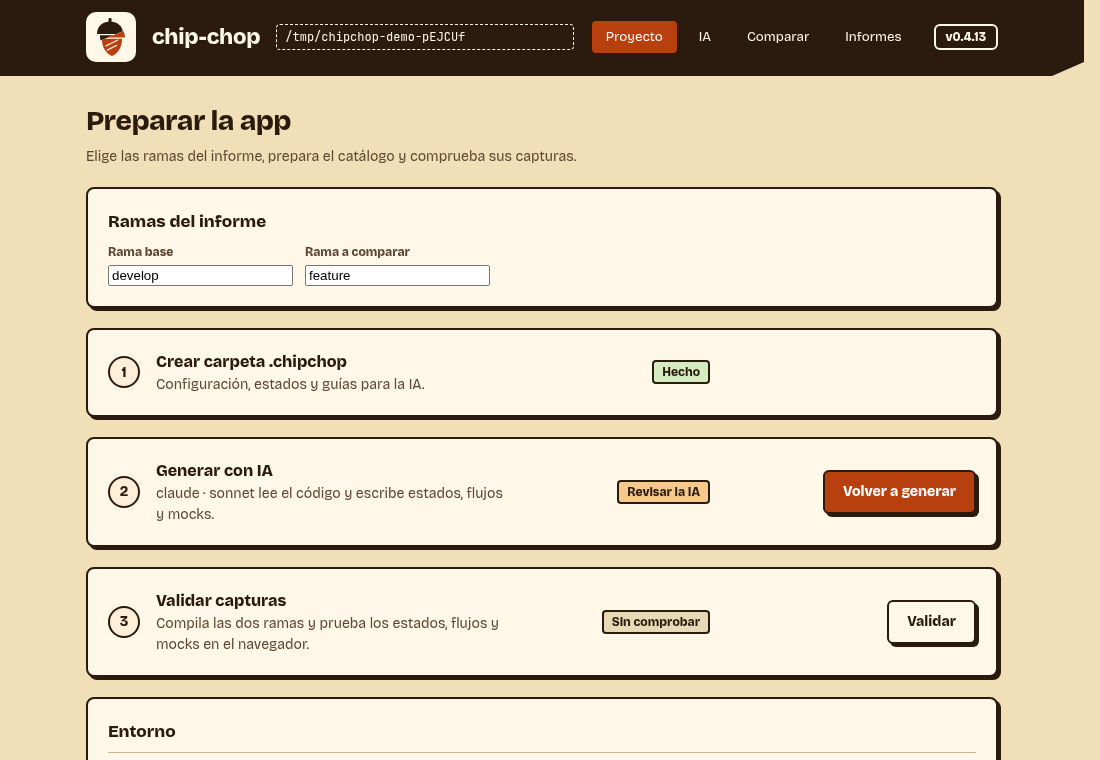
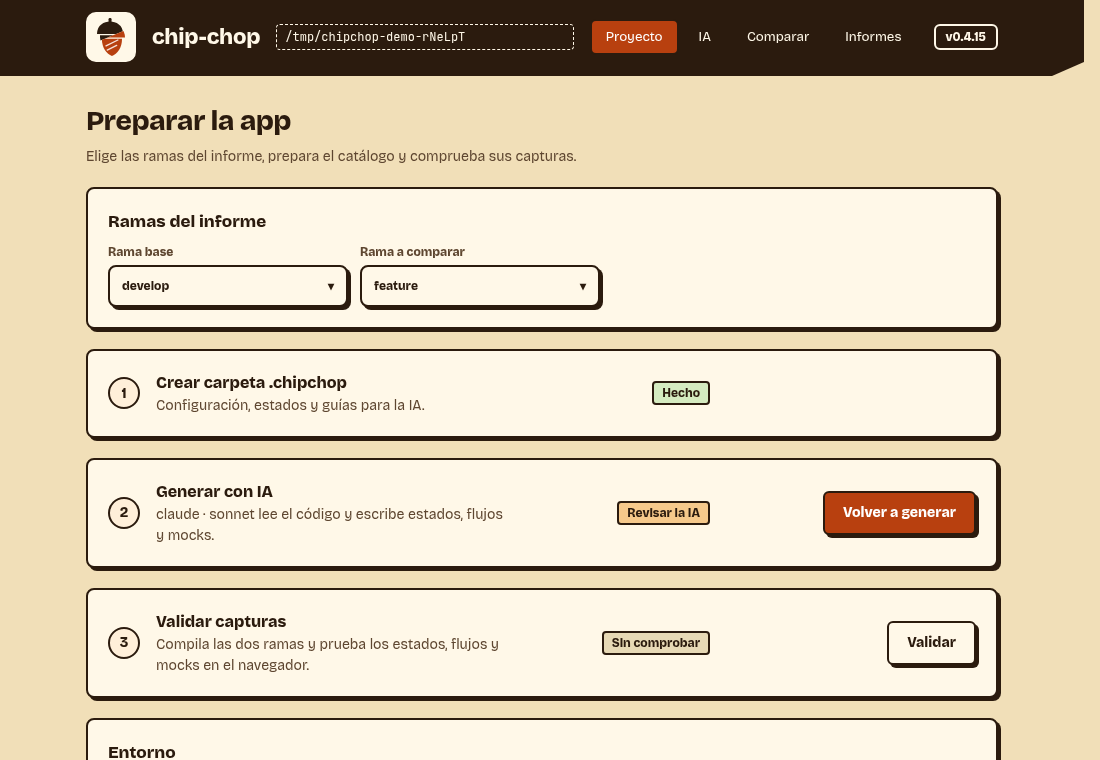
Reutiliza el buscador de ramas en Proyecto

Changed region(s): [[0.0618, 0.3026, 0.9273, 0.9987], [0.3709, 0.0303, 0.4327, 0.0605]]

diff --git a/packages/core/ui/app.js b/packages/core/ui/app.js
@@ -100,12 +100,12 @@
   }
   function setBranch(side, ref) {
     branchPair[side] = ref;
-    var input = $("project-" + side), combo = $(side);
-    if (input) input.value = ref;
-    if (combo) {
-      combo.value = ref;
-      combo.parentNode.querySelector(".md-trigger span").textContent = ref || "Elige una rama";
-    }
+    [side, "project-" + side].forEach(function (id) {
+      var input = $(id);
+      if (!input) return;
+      input.value = ref;
+      input.parentNode.querySelector(".md-trigger span").textContent = ref || "Elige una rama";
+    });
     renderValidation();
   }
   function renderValidation() {
@@ -154,16 +154,10 @@
       : step(1, "Crear carpeta .chipchop", "Configuración, estados y guías para la IA.", badge("Pendiente"), '<label class="f">Framework<select id="fw"><option>angularjs</option><option>angular</option><option>react</option><option>other</option></select></label><button class="btn p" id="init">Crear</button>');
     var s2 = step(2, "Generar con IA", esc(disc) + " lee el código y escribe estados, flujos y mocks.", (aiBad.length ? badge("Revisar la IA", "wa") : p.hasCatalog ? (generated ? badge(k.states + " estados · " + k.mocks + " mocks", "ok") : badge("Pendiente")) : badge("Falta el paso 1", "wa")), '<button class="btn p" id="gen"' + (p.hasCatalog ? "" : " disabled") + ">" + (generated ? "Volver a generar" : "Generar con IA") + "</button>");
     var s3 = step(3, "Validar capturas", "Compila las dos ramas y prueba los estados, flujos y mocks en el navegador.", '<span id="valst"></span>', '<button class="btn" id="val"' + (p.hasCatalog ? "" : " disabled") + ">Validar</button>");
-    var branchField = function (side, label) { return '<label class="f">' + label + '<input id="project-' + side + '" list="project-refs" value="' + esc(branchPair[side]) + '"></label>'; };
-    var refs = p.refs ? p.refs.branches.concat(p.refs.tags) : [];
     c.innerHTML = '<div><h1>Preparar la app</h1><p class="sub">Elige las ramas del informe, prepara el catálogo y comprueba sus capturas.</p></div>' +
-      '<div class="card"><h2>Ramas del informe</h2><div class="row">' + branchField("base", "Rama base") + branchField("head", "Rama a comparar") + '</div><datalist id="project-refs">' +
-      refs.map(function (ref) { return '<option value="' + esc(ref) + '"></option>'; }).join("") + '</datalist></div>' + s1 + s2 + s3 +
+      '<div class="card"><h2>Ramas del informe</h2><div class="row">' + branchCombo("project-base", "base", "Rama base") + branchCombo("project-head", "head", "Rama a comparar") + '</div></div>' + s1 + s2 + s3 +
       '<div id="genRun" hidden></div><div id="validation-run" hidden></div><div id="validation-result" hidden></div><div class="card"><h2>Entorno</h2><div id="env" class="mut">Comprobando…</div></div>';
-    ["base", "head"].forEach(function (side) {
-      var input = $("project-" + side);
-      input.onchange = function () { setBranch(side, input.value.trim()); };
-    });
+    bindBranchCombos(c);
     renderValidation();
     if ($("init")) $("init").onclick = function () { api("/api/init", "POST", { framework: $("fw").value }).then(load); };
     $("gen").onclick = function () {
@@ -271,7 +265,7 @@
     var inp = root.querySelector("input[type=hidden]"), tr = root.querySelector(".md-trigger"), menu = root.querySelector(".md-menu"), q = root.querySelector(".md-search"), ul = root.querySelector(".md-list"), foot = root.querySelector(".md-foot"), act = 0, shown = [];
     function label() { tr.firstChild.textContent = inp.value || "Elige una rama"; }
     function close() { menu.hidden = true; tr.setAttribute("aria-expanded", "false"); }
-    function pick(v) { setBranch(inp.id, v); label(); close(); tr.focus(); }
+    function pick(v) { setBranch(root.dataset.side, v); close(); tr.focus(); }
     function draw() {
       var t = q.value.trim().toLowerCase();
       shown = refs.filter(function (r) { return !t || r.toLowerCase().indexOf(t) >= 0; });
@@ -294,18 +288,31 @@
       else if (e.key === "Escape") { e.preventDefault(); close(); tr.focus(); }
     };
     ul.onmousedown = function (e) { var li = e.target.closest("li.md-it"); if (!li) return; e.preventDefault(); pick(li.getAttribute("data-c") ? q.value.trim() : shown[+li.getAttribute("data-i")]); };
-    document.addEventListener("click", function (e) { if (!root.contains(e.target)) close(); });
     label();
   }
+  function branchCombo(id, side, label) {
+    return '<div class="f"><span>' + label + '</span><div class="mdsel combo" data-side="' + side + '" data-for="' + id + '"><input type="hidden" id="' + id + '" value="' + esc(branchPair[side]) + '"><button type="button" class="md-trigger" aria-haspopup="listbox" aria-expanded="false" aria-label="' + label + '"><span></span><span aria-hidden="true">▾</span></button><div class="md-menu" hidden><input type="text" class="md-search" placeholder="Buscar rama o etiqueta…" aria-label="Buscar ' + label.toLowerCase() + '" autocomplete="off" spellcheck="false"><ul class="md-list" role="listbox"></ul><div class="md-foot small mut"></div></div></div></div>';
+  }
+  function bindBranchCombos(panel) {
+    var refs = project.refs ? project.refs.branches.concat(project.refs.tags) : [];
+    panel.querySelectorAll(".combo").forEach(function (c) { refCombo(c, refs); });
+  }
+  document.addEventListener("click", function (e) {
+    document.querySelectorAll(".combo .md-menu:not([hidden])").forEach(function (menu) {
+      var root = menu.parentNode;
+      if (!root.contains(e.target)) {
+        menu.hidden = true;
+        root.querySelector(".md-trigger").setAttribute("aria-expanded", "false");
+      }
+    });
+  });
   function renderCompare() {
-    var refs = (project.refs ? project.refs.branches.concat(project.refs.tags) : []);
-    var combo = function (id, label) { return '<div class="f"><span>' + label + '</span><div class="mdsel combo" data-for="' + id + '"><input type="hidden" id="' + id + '" value="' + esc(branchPair[id]) + '"><button type="button" class="md-trigger" aria-haspopup="listbox" aria-expanded="false" aria-label="' + label + '"><span></span><span aria-hidden="true">▾</span></button><div class="md-menu" hidden><input type="text" class="md-search" placeholder="Buscar rama o etiqueta…" aria-label="Buscar ' + label.toLowerCase() + '" autocomplete="off" spellcheck="false"><ul class="md-list" role="listbox"></ul><div class="md-foot small mut"></div></div></div></div>'; };
     $("comparar").innerHTML = '<div><h1>Comparar dos ramas</h1><p class="sub">Se compila cada rama aparte; tu carpeta de trabajo no se toca.</p></div>' +
-      '<div class="card"><div class="row" style="align-items:flex-end">' + combo("base", "Base") + combo("head", "Cabeza") + '' +
+      '<div class="card"><div class="row" style="align-items:flex-end">' + branchCombo("base", "base", "Base") + branchCombo("head", "head", "Cabeza") + '' +
       '<div class="f"><span>Modo</span><div class="seg" role="radiogroup" aria-label="Modo"><label><input type="radio" name="mode" value="restyle" checked><span>Restyle</span></label><label><input type="radio" name="mode" value="flow-audit"><span>Auditar flujos</span></label></div></div><span class="grow"></span><button class="btn p" id="cmp">Comparar</button></div>' +
       '<p class="small mut" style="margin:12px 0 0">Restyle: solo pueden cambiar los píxeles. Auditar flujos: se esperan pantallas nuevas.</p><div id="compare-validation" style="margin-top:8px"></div></div>' +
       '<div id="cmpRun" hidden></div><div id="result"></div>';
-    document.querySelectorAll("#comparar .combo").forEach(function (c) { refCombo(c, refs); });
+    bindBranchCombos($("comparar"));
     renderValidation();
     if (!project.hasCatalog) $("result").innerHTML = '<div class="banner wa"><strong>Primero prepara la app</strong><span class="grow">Falta la carpeta .chipchop (pestaña Proyecto).</span></div>';
     $("cmp").onclick = function () {

diff --git a/packages/core/src/ui.e2e.ts b/packages/core/src/ui.e2e.ts
@@ -29,8 +29,16 @@ assert.ok(readFileSync(0, "utf8").includes('{"base":"develop","head":"restyle"}'
     await page.getByText("Comprobando").waitFor({ state: "detached", timeout: 30000 });
     if (process.env.CHIPCHOP_SHOTS) await page.screenshot({ path: `${process.env.CHIPCHOP_SHOTS}/proyecto.png` });
 
-    await page.locator("#project-base").fill("develop");
-    await page.locator("#project-head").fill("restyle");
+    for (const [id, query, ref] of [["project-base", "devel", "develop"], ["project-head", "resty", "restyle"]] as const) {
+      const combo = page.locator(`[data-for="${id}"]`);
+      await combo.locator(".md-trigger").click();
+      await combo.locator(".md-search").fill(query);
+      await combo.getByRole("option", { name: ref, exact: true }).waitFor();
+      assert.equal(await combo.getByRole("option", { name: "feature", exact: true }).count(), 0);
+      await combo.locator(".md-search").press("Enter");
+      assert.equal(await page.locator(`#${id}`).inputValue(), ref);
+      assert.equal(await combo.locator(".md-trigger").getAttribute("aria-expanded"), "false");
+    }
     await page.locator("#gen").click();
     await page.getByText("10 pares de capturas comparables").waitFor({ timeout: 120000 });
     await page.locator(".runmodal [data-m=x]").click();

diff --git a/changelog/unreleased/buscador-ramas-proyecto.md b/changelog/unreleased/buscador-ramas-proyecto.md
@@ -1,0 +1,4 @@
+---
+type: Fixed
+---
+La vista Proyecto usa los mismos desplegables con buscador de ramas y etiquetas que Comparar.
